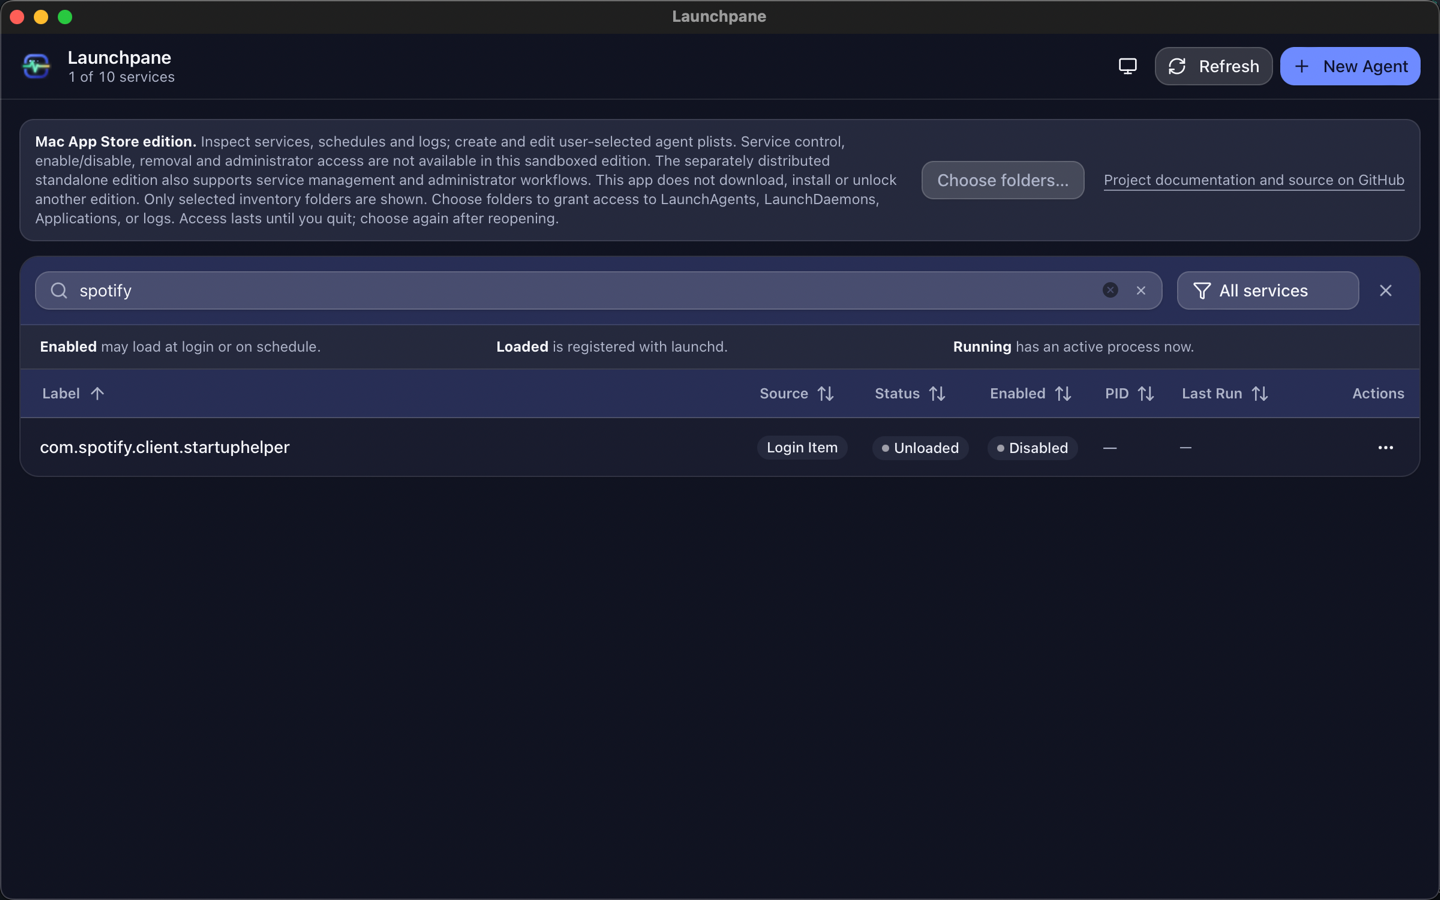
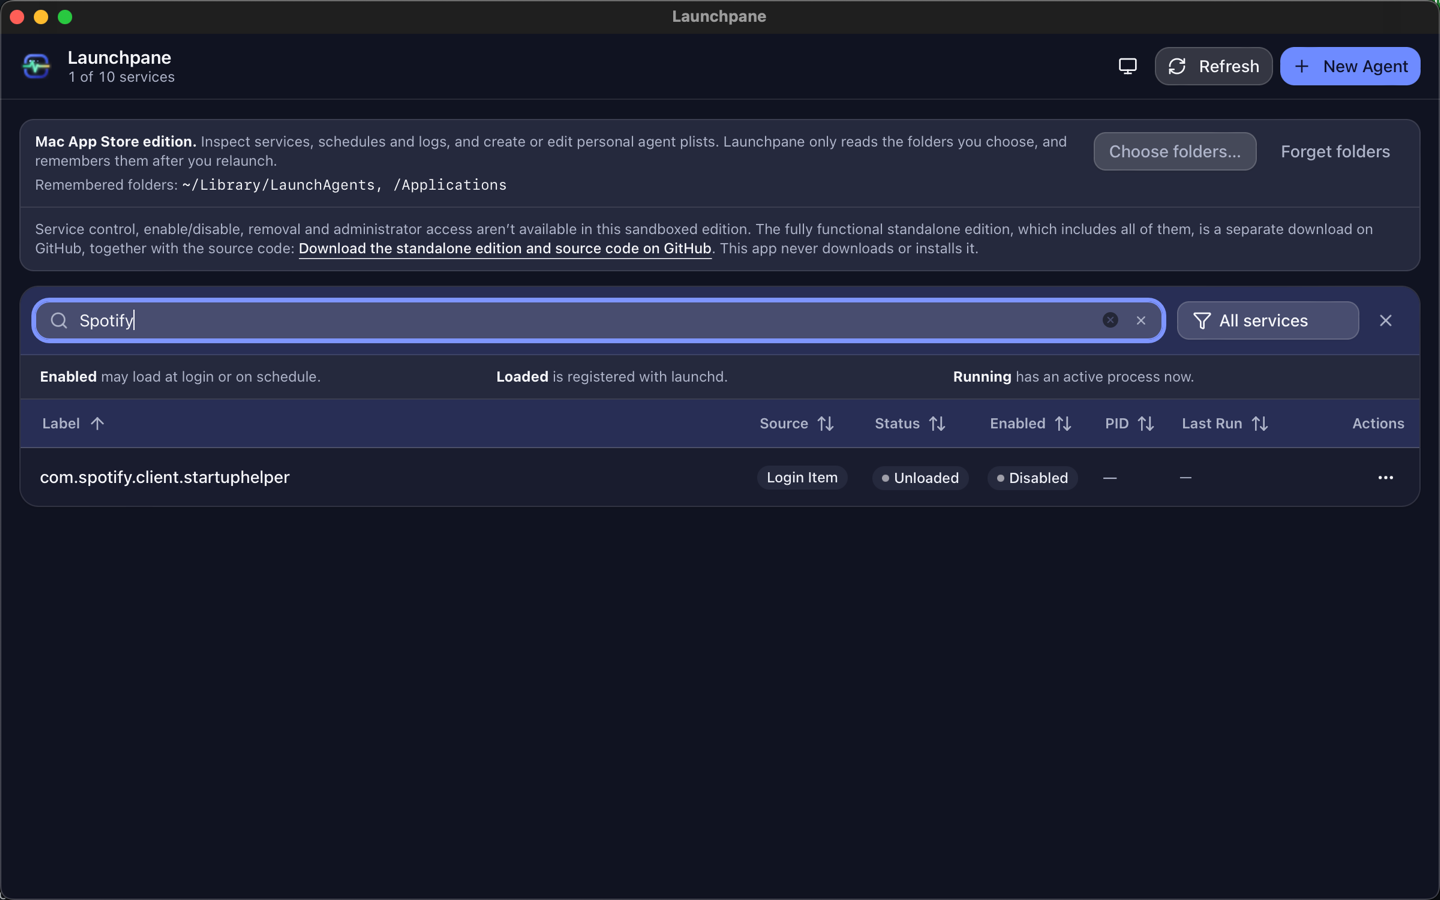
Prepare Store 1.4.0 with fresh native assets and safe review targeting

Changed region(s): [[0.0, 0.1244, 1.0, 0.56]]

diff --git a/appstore/review-recording.md b/appstore/review-recording.md
@@ -1,6 +1,27 @@
 # App Review recording and QA checklist
 
-## Current edition: 1.3.4 entitlement minimization
+## Current candidate: 1.4.0 (202610242100)
+
+The October 24 Apple API check reports 1.3.4 as `READY_FOR_SALE` and its
+macOS review submission as `COMPLETE`. This is a new update, not another
+submission of the previously rejected builds.
+
+The candidate adds remembered user-selected folders, a Forget folders action,
+first-run Choose folders recovery, and a clearer source/standalone-download
+notice. All four source screenshots were recaptured on October 24 from the
+universal 1.4.0 (202610242100) local sandbox preview. Selection, cancellation,
+disposable plist creation/editing, sample-log reading, login-helper inspection,
+quit/relaunch restoration and Forget folders passed. The disposable plist
+was never registered with launchd and both it and the sample log were removed.
+The log screenshot masks personal paths; all 16 opaque RGB derivatives and
+their source fingerprint passed verification. Old
+TestFlight results below are historical only. Before submitting this build,
+verify its exact Apple-installed binary, especially persistence after quit and
+relaunch, cancellation and forgetting access. This host still runs macOS 12.7.6;
+it cannot supply a latest-macOS recording. Any new Apple request for such a
+recording is a separate external gate, not evidence supplied by local previews.
+
+## Previous candidate: 1.3.4 entitlement minimization
 
 Candidate 1.3.4 removes the unused `com.apple.security.network.server`
 entitlement flagged by App Review on build `1.3.3 (202610162230)`. A sandboxed
@@ -156,16 +177,17 @@ test plan for that recording; it is intentionally not a simulated recording.
    - Keep alive: disabled
 7. Save the agent, show it in the User Agents list, open its detail view, and
    use the available action menu.
-8. Remove the temporary agent and show the confirmation and refreshed list.
+8. Remove the disposable plist using Finder and refresh Launchpane. There is
+   no Remove action in the Store edition.
 9. Select a system agent or daemon and show that mutation controls are
    unavailable/read-only.
 10. Stop recording after the final refreshed state is visible.
 
 Login Items can be shown when the review Mac has registered helpers. They are
-not required for the main flow. Only Enable/Disable can be activated; applicable
-lifecycle controls remain visible but disabled with a Store-specific reason.
-Also show the disabled Administrator control and the edition notice's optional
-GitHub documentation/source link. Neither can unlock additional Store features.
+not required for the main flow and are inspection-only. Lifecycle,
+Enable/Disable, Remove and Administrator controls must be absent. The edition
+notice's optional GitHub link opens the source/standalone-download project
+page and cannot unlock additional Store features.
 
 ## Recording evidence gate
 
@@ -201,16 +223,17 @@ upload is not evidence that the app works.
 - [ ] The app launches without an account, login, or network connection.
 - [ ] Inventory loads without a crash on the review Mac.
 - [ ] Search and source filtering return and clear results correctly.
-- [ ] User-agent create, refresh, detail, and remove flow completes.
+- [ ] Personal plist create, edit, refresh and detail work without activation; Finder cleanup completes.
 - [ ] System Agents and System Daemons remain read-only.
-- [ ] Login Items, when present, permit only Enable/Disable; lifecycle controls show Store-specific disabled reasons.
-- [ ] Administrator is disabled with a Store-specific hint; the optional GitHub project link opens the browser and does not download/install/unlock anything.
+- [ ] Login Items, when present, are inspection-only; runtime/toggle/removal controls are absent.
+- [ ] Administrator is absent; the optional GitHub project link opens the browser and does not download/install/unlock anything.
 - [ ] Errors remain visible and provide a recovery action.
 - [ ] Light and dark macOS appearances render the main flow legibly.
 - [ ] The temporary plist is removed after the test.
 - [ ] The exact submitted build number is shown in the recording notes.
 - [ ] Initial missing consent has a clear recovery action; cancellation grants no access.
-- [ ] Only selected inventory roots are shown, and reopening asks for consent again.
+- [ ] Only selected inventory roots are shown; quitting/reopening restores access without a prompt.
+- [ ] Forget folders removes saved bookmarks and returns to the first-run card, including after relaunch.
 - [ ] The final signed app omits get-task-allow and all temporary file exceptions.
 
 ## October 15 replacement preparation

diff --git a/appstore/sandbox-exceptions.md b/appstore/sandbox-exceptions.md
@@ -16,7 +16,7 @@ The Store entitlement `com.apple.security.files.user-selected.read-write`
 allows access granted through macOS `NSOpenPanel`. Choose **Choose folders…**
 and explicitly select the folders to inspect:
 
-- `~/Library/LaunchAgents` for personal agents and create/edit/remove.
+- `~/Library/LaunchAgents` for personal agents and create/edit.
 - `/Library/LaunchAgents` and `/Library/LaunchDaemons` for read-only inventory.
 - `/Applications` and/or `~/Applications` for login-helper discovery.
 - A log's containing folder to read or clear that log.
@@ -67,8 +67,13 @@ relaunch, so this machine does not enforce the entitlement and the test cannot
 show what removing it breaks. It is kept because Apple documents it as required
 for security-scoped bookmarks and enforcement may differ on other macOS versions
 and with distribution signing. Confirm persistence on the exact TestFlight build
-before submission; if a distribution-signed build proves the entitlement
-unnecessary, remove it and its verifier entry together.
+before submission. Do not interpret this older-OS removal result as proof that
+Apple's documented entitlement can safely be omitted on supported macOS
+versions. The October 24 candidate retains it for the concrete bookmark
+feature, not for hypothetical framework behavior. Apple's
+[security-scoped bookmark guidance](https://developer.apple.com/documentation/professional-video-applications/enabling-security-scoped-bookmark-and-url-access)
+explicitly lists the app-scope entitlement. The removal result remains
+inconclusive rather than being relabeled a pass.
 
 `com.apple.security.network.server` is forbidden. Launchpane never listens for
 incoming connections; App Review rejected 1.3.3 for requesting it without

diff --git a/appstore/README.md b/appstore/README.md
@@ -1,6 +1,6 @@
 # Mac App Store release
 
-The 1.3.4 Store candidate is a service inspector and personal plist editor.
+The 1.4.0 Store candidate is a service inspector and personal plist editor.
 It removes all lifecycle, enable/disable, removal and administrator operations;
 the standalone edition retains them. The [edition comparison](../docs/app-store-actions.md)
 is authoritative. A sandboxed filesystem grant is not launchd-control permission.
@@ -37,14 +37,15 @@ Create these items in the Apple Developer and App Store Connect portals:
 
 Mac App Store review is not guaranteed. The Store edition must obtain folder
 access using the native macOS picker; saved paths do not grant access. The
-current implementation asks again after every app restart. File access does
+current implementation restores user-granted security-scoped bookmarks after
+restart; Forget folders removes saved access. File access does
 not grant permission to control launchd. This edition deliberately has no
 service-control operations; verify inspection and selected-file editing in the
 submitted binary instead.
 
 The [App Store action table and link-policy assessment](../docs/app-store-actions.md)
-documents removed edition-specific controls, their explanations, and the neutral
-GitHub project link. A feature build or local ad-hoc signature does not replace
+documents removed edition-specific controls, their explanations, and the
+GitHub source-code/standalone-download link. A feature build or local ad-hoc signature does not replace
 exact-build sandbox QA or establish App Review approval.
 
 ## GitHub environment and secrets
